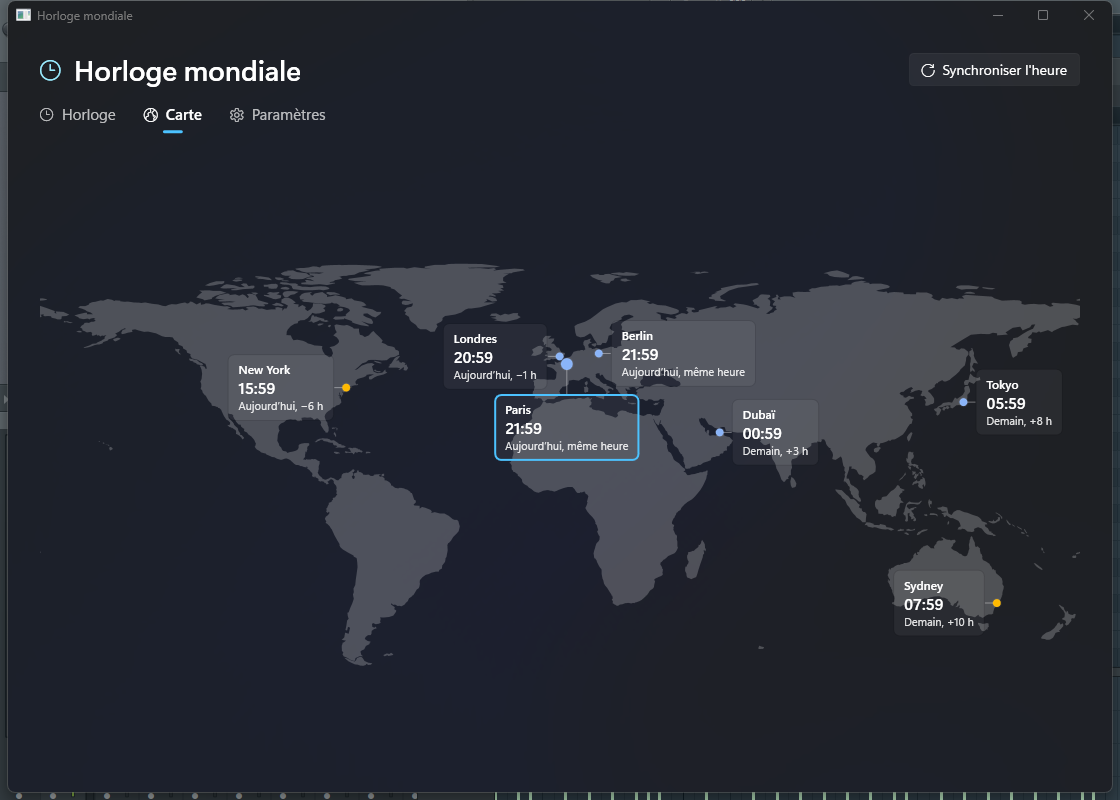
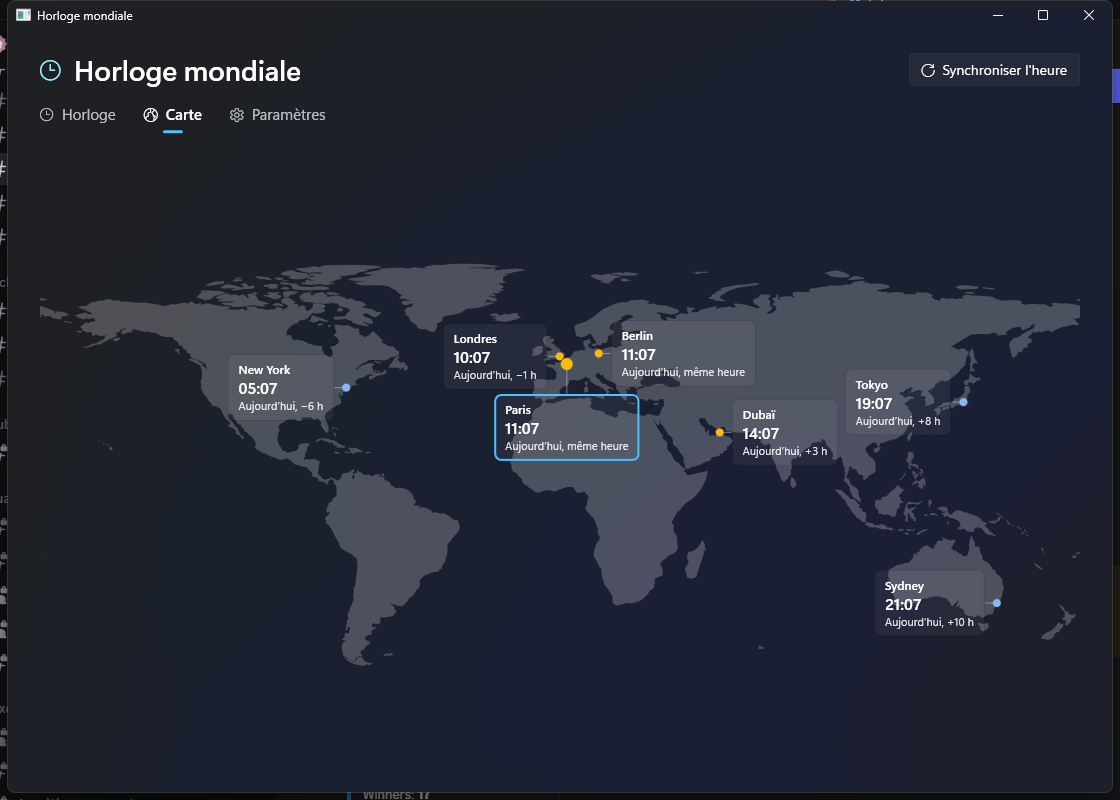
Menu du tray modernisé, nouvelles captures du README et version 1.8.0

diff --git a/MainWindow.xaml b/MainWindow.xaml
@@ -192,7 +192,7 @@
             </StackPanel>
         </Grid>
 
-        <TabControl Grid.Row="1" Style="{StaticResource PivotTabControl}"
+        <TabControl x:Name="Tabs" Grid.Row="1" Style="{StaticResource PivotTabControl}"
                     ItemContainerStyle="{StaticResource PivotTab}">
         <TabItem Header="Horloge" Tag="&#xE917;">
         <Grid>

diff --git a/TrayIcon.cs b/TrayIcon.cs
@@ -1,48 +1,52 @@
 using System.Drawing;
 using System.Drawing.Drawing2D;
 using System.Runtime.InteropServices;
+using System.Windows;
+using System.Windows.Controls;
+using System.Windows.Controls.Primitives;
+using System.Windows.Interop;
+using System.Windows.Threading;
 using Forms = System.Windows.Forms;
+using Media = System.Windows.Media;
+using WpfFontFamily = System.Windows.Media.FontFamily;
 
 namespace ClockApp
 {
     public sealed class TrayIcon : IDisposable
     {
+        private const int MaxCitiesInMenu = 6;
+
         private readonly Forms.NotifyIcon _icon;
-        private readonly Forms.ToolStripMenuItem _remindersItem;
         private readonly AppSettings _settings;
+        private readonly MainViewModel _vm;
+        private readonly ContextMenu _menu = new() { Placement = PlacementMode.AbsolutePoint, MinWidth = 260, StaysOpen = true };
+        private readonly List<(MenuItem Item, CityClock City)> _cityItems = new();
+        private readonly DispatcherTimer _menuTimer = new() { Interval = TimeSpan.FromSeconds(1) };
         private bool _hintShown;
 
+        private static readonly Media.Brush DayBrush = Frozen("#FFB900");
+        private static readonly Media.Brush NightBrush = Frozen("#8AB4F8");
+
         public event Action? OpenRequested;
+        public event Action<int>? TabRequested;
         public event Action? ExitRequested;
 
-        public TrayIcon(AppSettings settings)
+        public TrayIcon(AppSettings settings, MainViewModel vm)
         {
             _settings = settings;
-
-            _remindersItem = new Forms.ToolStripMenuItem("Rappels activés") { CheckOnClick = true, Checked = settings.RemindersEnabled };
-            _remindersItem.CheckedChanged += (_, _) => _settings.RemindersEnabled = _remindersItem.Checked;
-            settings.PropertyChanged += (_, e) =>
-            {
-                if (e.PropertyName == nameof(AppSettings.RemindersEnabled))
-                    _remindersItem.Checked = settings.RemindersEnabled;
-            };
-
-            var open = new Forms.ToolStripMenuItem("Ouvrir l'horloge") { Font = new Font(Forms.Control.DefaultFont, FontStyle.Bold) };
-            open.Click += (_, _) => OpenRequested?.Invoke();
-            var exit = new Forms.ToolStripMenuItem("Quitter");
-            exit.Click += (_, _) => ExitRequested?.Invoke();
-
-            var menu = new Forms.ContextMenuStrip();
-            menu.Items.AddRange([open, _remindersItem, new Forms.ToolStripSeparator(), exit]);
+            _vm = vm;
+            _menu.Opened += OnMenuOpened;
+            _menu.Closed += (_, _) => _menuTimer.Stop();
+            _menuTimer.Tick += (_, _) => RefreshCityItems();
 
             _icon = new Forms.NotifyIcon
             {
                 Icon = CreateClockIcon(),
                 Text = "Horloge mondiale",
-                ContextMenuStrip = menu,
                 Visible = true,
             };
-            _icon.MouseClick += (_, e) => { if (e.Button == Forms.MouseButtons.Left) OpenRequested?.Invoke(); };
+            _icon.MouseClick += OnIconClick;
+            _icon.MouseMove += (_, _) => UpdateTooltip();
         }
 
         public void ShowBackgroundHint()
@@ -50,14 +54,170 @@ namespace ClockApp
             if (_hintShown) return;
             _hintShown = true;
             _icon.ShowBalloonTip(4000, "Toujours là, en arrière-plan",
-                "Vos rappels continuent. Clic sur l'icône pour rouvrir, clic droit pour quitter.",
+                "Vos rappels continuent. Clic sur l'icône pour rouvrir, clic droit pour le menu.",
                 Forms.ToolTipIcon.None);
+        }
+
+        private void OnIconClick(object? sender, Forms.MouseEventArgs e)
+        {
+            if (e.Button == Forms.MouseButtons.Left) OpenRequested?.Invoke();
+            else if (e.Button == Forms.MouseButtons.Right) ShowMenu();
+        }
+
+
+        private void ShowMenu()
+        {
+            if (_menu.IsOpen) _menu.IsOpen = false;
+            BuildMenu();
+
+            var cursor = Forms.Cursor.Position;
+            var scale = GetDpiForSystem() / 96.0;
+
+            var point = new System.Windows.Point(cursor.X / scale, cursor.Y / scale);
+            _menu.HorizontalOffset = point.X;
+            _menu.VerticalOffset = point.Y;
+            _menu.IsOpen = true;
+        }
+
+        private void OnMenuOpened(object sender, RoutedEventArgs e)
+        {
+            if (PresentationSource.FromVisual(_menu) is not HwndSource hwnd) return;
+            if (_hookedSource != hwnd)
+            {
+                _hookedSource?.RemoveHook(MenuHook);
+                _hookedSource = hwnd;
+                hwnd.AddHook(MenuHook);
+            }
+            SetForegroundWindow(hwnd.Handle);
+            _menu.Focus();
+            _menuTimer.Start();
+        }
+
+        private HwndSource? _hookedSource;
+
+        private IntPtr MenuHook(IntPtr hwnd, int msg, IntPtr wParam, IntPtr lParam, ref bool handled)
+        {
+            const int WM_ACTIVATE = 0x0006;
+            var deactivated = (wParam.ToInt64() & 0xFFFF) == 0;
+            if (msg == WM_ACTIVATE && deactivated && _menu.IsOpen)
+                _menu.Dispatcher.BeginInvoke(() => _menu.IsOpen = false);
+            return IntPtr.Zero;
+        }
+
+        private void BuildMenu()
+        {
+            _menu.Items.Clear();
+            _cityItems.Clear();
+            _vm.Tick();
+
+            foreach (var city in _vm.Cities.Take(MaxCitiesInMenu))
+            {
+                var item = Item(city.City, "", () =>
+                {
+                    _vm.Selected = city;
+                    OpenRequested?.Invoke();
+                });
+                if (city.IsSelected) item.FontWeight = FontWeights.SemiBold;
+                _cityItems.Add((item, city));
+                _menu.Items.Add(item);
+            }
+            RefreshCityItems();
+            if (_vm.Cities.Count > 0) _menu.Items.Add(new Separator());
+
+            _menu.Items.Add(Item("Ouvrir l'horloge", "", () => TabRequested?.Invoke(0), bold: true));
+            _menu.Items.Add(Item("Voir la carte", "", () => TabRequested?.Invoke(1)));
+            _menu.Items.Add(SyncItem());
+            _menu.Items.Add(new Separator());
+
+            _menu.Items.Add(Toggle("Rappels", "", _settings.RemindersEnabled, v => _settings.RemindersEnabled = v));
+            _menu.Items.Add(Toggle("Ne pas déranger la nuit", "", _settings.QuietHours, v => _settings.QuietHours = v));
+            _menu.Items.Add(Toggle("Son des rappels", "", _settings.PlaySound, v => _settings.PlaySound = v));
+            _menu.Items.Add(Item("Paramètres", "", () => TabRequested?.Invoke(2)));
+            _menu.Items.Add(new Separator());
+
+            _menu.Items.Add(Item("Quitter", "", () => ExitRequested?.Invoke()));
+        }
+
+        private MenuItem SyncItem()
+        {
+            var label = "Synchroniser l'heure";
+            if (_vm.IsSyncing) label = "Synchronisation…";
+
+            var item = Item(label, "", async () => await _vm.SyncAsync());
+            item.IsEnabled = _vm.CanSync;
+            item.ToolTip = _vm.StatusText;
+            return item;
+        }
+
+        private void RefreshCityItems()
+        {
+            _vm.Tick();
+            foreach (var (item, city) in _cityItems)
+            {
+                item.InputGestureText = $"{city.TimeText}  ·  {city.UtcText}";
+                if (item.Icon is not TextBlock icon) continue;
+
+                if (city.IsDay)
+                {
+                    icon.Text = "";
+                    icon.Foreground = DayBrush;
+                }
+                else
+                {
+                    icon.Text = "";
+                    icon.Foreground = NightBrush;
+                }
+            }
+        }
+
+        private static Media.Brush Frozen(string color)
+        {
+            var brush = (Media.Brush)new Media.BrushConverter().ConvertFromString(color)!;
+            brush.Freeze();
+            return brush;
+        }
+
+        private static MenuItem Toggle(string label, string glyph, bool value, Action<bool> set)
+        {
+            var item = Item(label, glyph, null);
+            item.IsCheckable = true;
+            item.IsChecked = value;
+            item.Click += (_, _) => set(item.IsChecked);
+            return item;
+        }
+
+        private static MenuItem Item(string label, string glyph, Action? click, bool bold = false)
+        {
+            var item = new MenuItem
+            {
+                Header = label,
+                Icon = new TextBlock
+                {
+                    Text = glyph,
+                    FontFamily = (WpfFontFamily)Application.Current.Resources["IconFont"],
+                    FontSize = 14,
+                    VerticalAlignment = VerticalAlignment.Center,
+                },
+            };
+            if (bold) item.FontWeight = FontWeights.SemiBold;
+            if (click is not null) item.Click += (_, _) => click();
+            return item;
+        }
+
+        private void UpdateTooltip()
+        {
+            _vm.Tick();
+            var lines = _vm.Cities.Take(4).Select(c => $"{c.City} {c.TimeText}");
+            var text = string.Join("\n", lines.Prepend("Horloge mondiale"));
+            if (text.Length > 127) text = text[..127];
+            _icon.Text = text;
         }
 
         public void Dispose()
         {
+            _menuTimer.Stop();
+            _menu.IsOpen = false;
             _icon.Visible = false;
-            _icon.ContextMenuStrip?.Dispose();
             _icon.Icon?.Dispose();
             _icon.Dispose();
         }
@@ -85,5 +245,11 @@ namespace ClockApp
 
         [DllImport("user32.dll")]
         private static extern bool DestroyIcon(IntPtr handle);
+
+        [DllImport("user32.dll")]
+        private static extern bool SetForegroundWindow(IntPtr handle);
+
+        [DllImport("user32.dll")]
+        private static extern uint GetDpiForSystem();
     }
 }

diff --git a/WorldMap.cs b/WorldMap.cs
@@ -207,8 +207,11 @@ namespace ClockApp
 
             private void Refresh()
             {
-                Dot.Fill = City.IsDay ? DayBrush : NightBrush;
-                var size = City.IsSelected ? 14 : 10;
+                Dot.Fill = NightBrush;
+                if (City.IsDay) Dot.Fill = DayBrush;
+
+                var size = 10;
+                if (City.IsSelected) size = 14;
                 Dot.Width = size;
                 Dot.Height = size;
                 Canvas.SetLeft(Dot, Position.X - size / 2.0);

diff --git a/App.xaml.cs b/App.xaml.cs
@@ -24,9 +24,10 @@ namespace ClockApp
                     ApplyTheme(settings.Theme);
             };
 
-            _tray = new TrayIcon(settings);
+            _tray = new TrayIcon(settings, _window.ViewModel);
             _tray.OpenRequested += () => _window.Open();
             _tray.ExitRequested += Quit;
+            _tray.TabRequested += i => _window.OpenTab(i);
             _window.HiddenToTray += _tray.ShowBackgroundHint;
             _window.ExitRequested += Quit;
 

diff --git a/MainWindow.xaml.cs b/MainWindow.xaml.cs
@@ -51,6 +51,12 @@ namespace ClockApp
             Activate();
         }
 
+        public void OpenTab(int index)
+        {
+            Tabs.SelectedIndex = index;
+            Open();
+        }
+
         public void StartBackgroundWork()
         {
             if (!_reminderTimer.IsEnabled) _reminderTimer.Start();

diff --git a/README.md b/README.md
@@ -20,6 +20,7 @@ Application en **C#** (WPF, .NET 10) qui affiche l'heure de plusieurs villes du 
 - Alerte de changement d'heure : les cartes annoncent le passage à l'heure d'été ou d'hiver dans les 7 jours avec le nouvel écart, et une notification prévient deux jours avant
 - Thème au choix : système, clair ou sombre
 - Icône dans la zone de notification : fermer la fenêtre la range près de l'heure de Windows pour que les rappels continuent, avec une option pour lancer l'horloge au démarrage de Windows
+- Menu du clic droit sur l'icône (style Windows 11) : heure de vos villes, accès direct à l'horloge, à la carte et aux paramètres, synchronisation et réglages rapides des rappels
 
 ![Capture de l'onglet Carte](docs/screenshot-carte.png)
 
